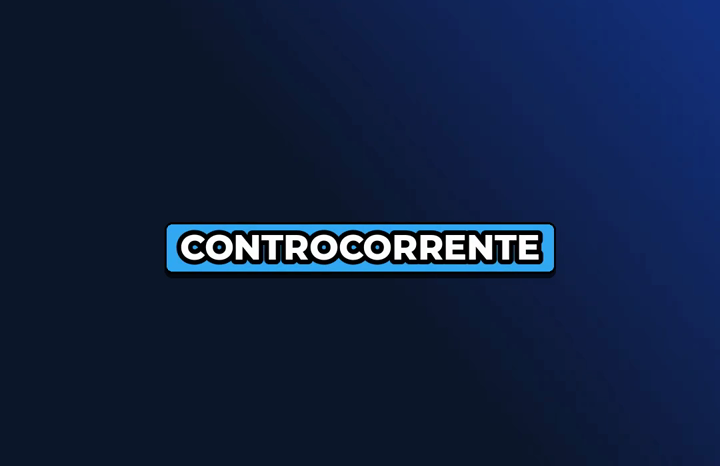
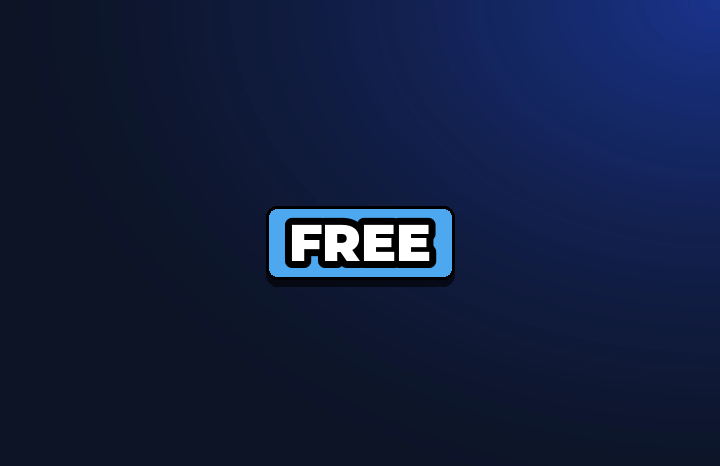
Fix faster-whisper word merging and load errors, English README image
- faster-whisper: join hyphenated pieces ("word" "-by" "-word") into one
  word via merge_tokens, the same rule used for whisper.cpp
- faster-whisper: raise an actionable WordcapsError when the model cannot
  be downloaded or loaded, instead of a raw traceback
- docs/emphasis.png: replace the Italian example word with "FREE", matching
  the emphasis example in the README

Changed region(s): [[0.2139, 0.4206, 0.7944, 0.6309], [0.9167, 0.6009, 1.0, 1.0]]

diff --git a/tests/test_transcribe.py b/tests/test_transcribe.py
@@ -15,6 +15,45 @@ def test_merge_tokens_joins_subwords_and_drops_tags():
         ("Ciao", 0.0, 0.2), ("fighissima!", 0.2, 0.9), ("ok", 1.0, 1.2)]
 
 
+def test_faster_whisper_load_failure_is_actionable(monkeypatch):
+    import sys
+    import types
+
+    from wordcaps.models import WordcapsError
+    from wordcaps.transcribe import FasterWhisper
+
+    def fail(*args, **kwargs):
+        raise OSError("403 Forbidden")
+
+    monkeypatch.setitem(sys.modules, "faster_whisper", types.SimpleNamespace(WhisperModel=fail))
+    with pytest.raises(WordcapsError, match="could not load model 'base'"):
+        FasterWhisper("base")
+
+
+def test_faster_whisper_joins_hyphenated_pieces(monkeypatch):
+    import sys
+    import types
+
+    from wordcaps.transcribe import FasterWhisper
+
+    W = types.SimpleNamespace
+    pieces = [(" how", 0.0, 0.2), (" word", 0.2, 0.4), ("-by", 0.4, 0.6),
+              ("-word", 0.6, 0.8), (" captions", 0.8, 1.2)]
+
+    class Model:
+        def __init__(self, *args, **kwargs):
+            pass
+
+        def transcribe(self, *args, **kwargs):
+            seg = W(words=[W(word=t, start=s, end=e) for t, s, e in pieces])
+            return [seg], None
+
+    monkeypatch.setitem(sys.modules, "faster_whisper", W(WhisperModel=Model))
+    words = FasterWhisper("base").transcribe(Path("x.wav"), "en")
+    assert [(w.text, w.start, w.end) for w in words] == [
+        ("how", 0.0, 0.2), ("word-by-word", 0.2, 0.8), ("captions", 0.8, 1.2)]
+
+
 @pytest.mark.whisper
 @pytest.mark.skipif(not os.environ.get("WORDCAPS_TEST_MODEL") or not shutil.which("say"),
                     reason="set WORDCAPS_TEST_MODEL to a ggml model (macOS only: uses `say`)")

diff --git a/src/wordcaps/transcribe.py b/src/wordcaps/transcribe.py
@@ -103,14 +103,24 @@ class FasterWhisper:
             raise WordcapsError(
                 "faster-whisper is not installed: pip install 'wordcaps[faster-whisper]'"
             ) from e
-        self._model = WhisperModel(model, device=device, compute_type=compute_type)
+        try:
+            self._model = WhisperModel(model, device=device, compute_type=compute_type)
+        except Exception as e:
+            # download or load failures (offline, proxy, unknown model name) surface
+            # from huggingface_hub/ctranslate2 as arbitrary exceptions
+            raise WordcapsError(
+                f"faster-whisper could not load model '{model}': {e}\n"
+                "check the model name and your connection (the first run downloads it)"
+            ) from e
 
     def transcribe(self, wav: Path, language: str | None) -> list[Word]:
         segments, _ = self._model.transcribe(str(wav), language=language, word_timestamps=True)
-        return [
-            Word(w.word.strip(), float(w.start), float(w.end))
-            for seg in segments for w in (seg.words or []) if w.word.strip()
-        ]
+        # same convention as whisper.cpp: no leading space means the piece
+        # continues the previous word ("word" + "-by" + "-word")
+        return merge_tokens([
+            (float(w.start), float(w.end), w.word)
+            for seg in segments for w in (seg.words or [])
+        ])
 
 
 def get_backend(name: str = "auto", model: str = "base") -> Backend:

diff --git a/CHANGELOG.md b/CHANGELOG.md
@@ -6,6 +6,13 @@ All notable changes to this project are documented here. The format follows
 
 ## [Unreleased]
 
+### Fixed
+
+- faster-whisper backend: hyphenated words ("word-by-word") are joined into one
+  word instead of being split into pieces across captions.
+- faster-whisper backend: a model that cannot be downloaded or loaded now gives
+  a short, actionable error instead of a Python traceback.
+
 ## [0.1.0] - 2026-09-21
 
 ### Added
